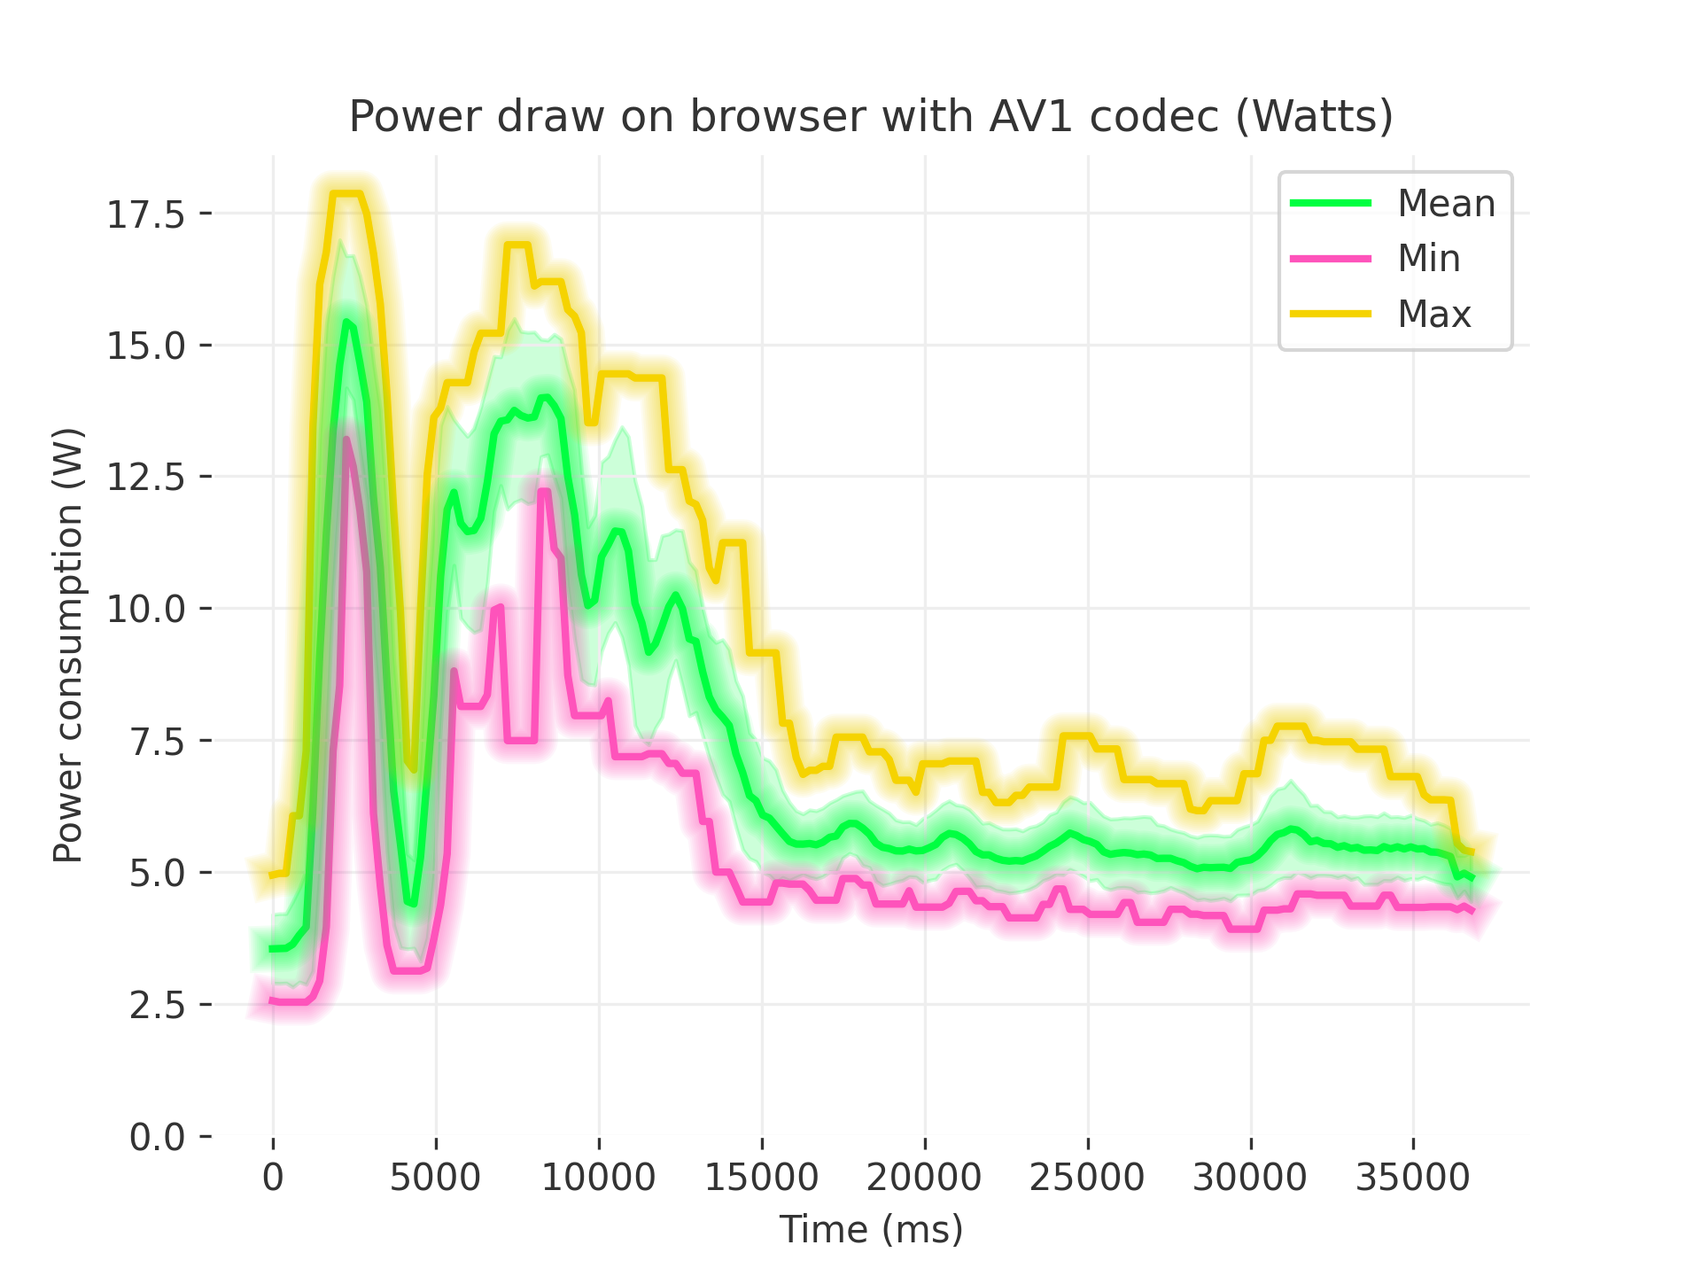
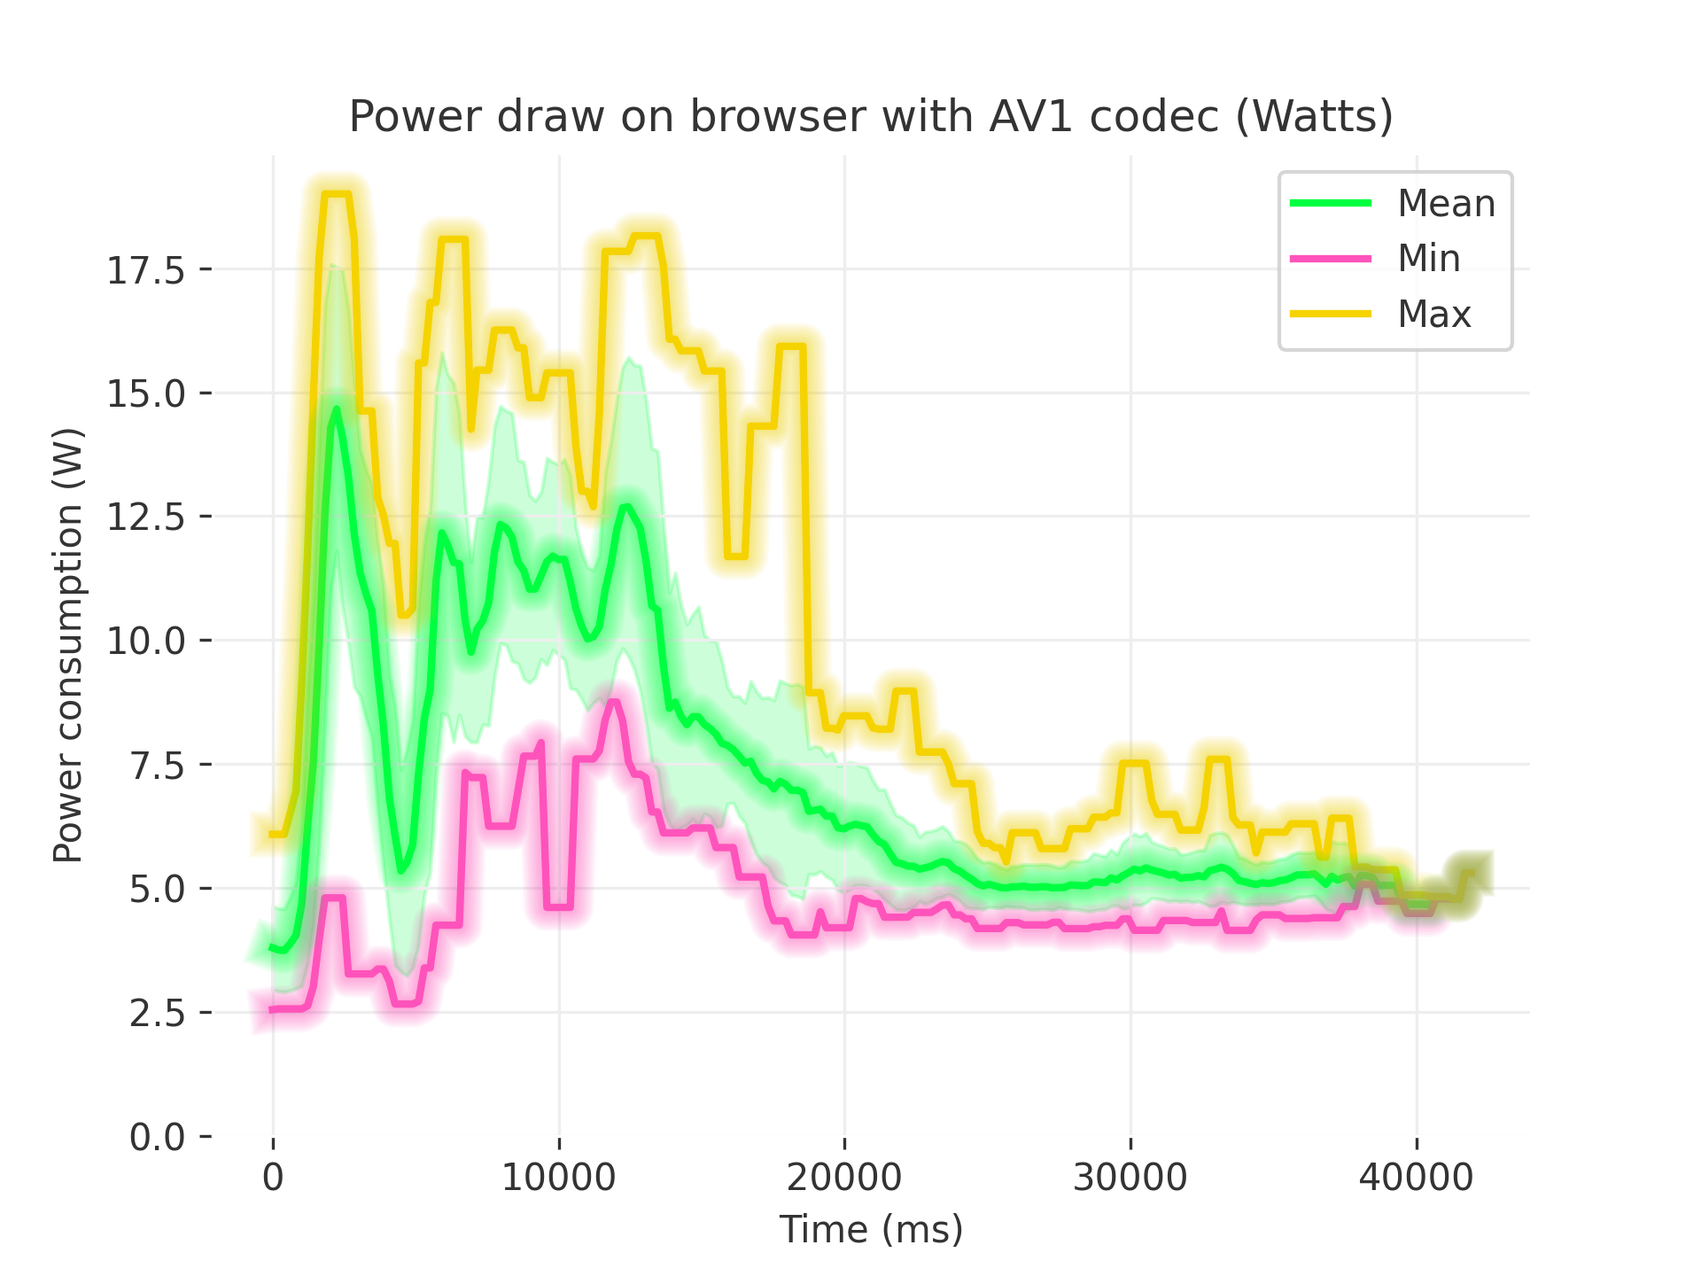
Add correct final version

diff --git a/2025/p1_measuring_software/g14_jellyfin_browser_native.md b/2025/p1_measuring_software/g14_jellyfin_browser_native.md
@@ -17,7 +17,7 @@ All code used for these experiments can be found [here](https://github.com/Jeroe
 
 ### Program under test
 
-We will be comparing the energy usage of [Jellyfin](https://jellyfin.org/), a free open-source media server that is used for managing and streaming a media library. In this experiment, we compare the energy consumption of streaming a small piece of a movie using the web browser interface versus the Jellyfin native application. By measuring the energy consumption of these two approaches, we aim to identify which method is more energy-efficient and under which circumstances.
+We will be comparing the energy usage of [Jellyfin](https://jellyfin.org/), a free open-source media server that is used for managing and streaming a media library. In this experiment, we compare the energy consumption of streaming a small piece of a movie using the web browser interface versus the Jellyfin client native application. By measuring the energy consumption of these two approaches, we aim to identify which method is more energy-efficient and under which circumstances.
 
 ### Video codecs
 
@@ -33,9 +33,9 @@ The media player used for video and audio playback differes between the browser 
 
 ### Experimental Setup
 
-To compare the browser version to the native app we created an automatic testing script. We chose to use the Google Chrome browser and downloaded the most recent version of the MacOS Jellyfin application. The task consists of logging in to the jellyfin server, searching for a video and watching for a predefined amount of time before closing either the browser or app. Whichever we were testing.
+To compare the browser version to the native app we created an automatic testing script. We chose to use the Google Chrome browser and downloaded the most recent version of the MacOS Jellyfin application (v1.11.1) and Jellyfin server v10.10.3. The task consists of logging in to the jellyfin server, searching for a video and watching for a predefined amount of time before closing either the browser or app. Whichever we were testing.
 
-For these experiments we had the automated script watch 30 seconds of video. To also include different video codecs we ran experiments on the video '2 Fast 2 Furious' which has an H.264 codec, and on the video 'Moana 2' which has an AV1 codec. For these experiments the same browser was used, and the same Jellyfin application was used.
+For these experiments we had the automated script watch 30 seconds of video. To also include different video codecs we ran experiments on the movie '2 Fast 2 Furious' which with an H.264 codec, and on the movie 'Moana 2' with an AV1 codec. For these experiments the same browser was used, and the same Jellyfin application was used.
 
 ### Hardware setup
 
@@ -77,7 +77,9 @@ We used the energy consumption method over the average power draw since we inclu
 
 ![h264 browser](../img/p1_measuring_software/g14_jellyfin_browser_native/h264_browser_watts.png)
 
-![h264 dist](../img/p1_measuring_software/g14_jellyfin_browser_native/h264_distribution.png)
+![av1 app](../img/p1_measuring_software/g14_jellyfin_browser_native/av1_app_watts.png)
+
+![av1 browser](../img/p1_measuring_software/g14_jellyfin_browser_native/av1_browser_watts.png)
 
 ### Power Draw on the App
 
@@ -86,12 +88,14 @@ Plot description:
 - X-axis (Time in milliseconds).
 - Y-axis (Power in watts): the total system power draw.
 - Lines:
+
   - Green (Mean): the average power across multiple measurements at each time slice.
   - Green area: standard deviation of the mean power.
   - Pink (Min): the lowest power measurement observed at each time step.
   - Yellow (Max): the highest power measurement observed at each time step.
-- General Shape: there is a pronounced spike in the first ~5s, followed by a downward trend, and eventually settling into a moderately stable range of 5 to 8 watts for the mean line.
-  If we go more in more depth, we can divide the graphs in sections. We can observe that the initial spike to nearly 18W is common at the start of the application. The power draw then drops as the application finishes starting at ~7 seconds. Power draw then peaks again while searching for and starting the playback of the movie between ~7 and ~15 seconds as the application is making requests, loading thumbnails, and playback starts performing video initialization, buffering, and possibly hardware-acceleration handshakes. The second section between ~7 to ~15 seconds, the mean drops from ~10W to ~6-8W. The difference between min and max indicates short bursts of higher CPU/GPU activity, we could see this section as the settling section. The third section ~15s onward, after the first peak, the power consumption drifts with less dramatic peaks. The mean line is around 6-7W, and the min line dips to around 2-3W at times, suggesting idle or partial idle states when frames are easily decoded, we could see this section as the stable section.
+
+General Shape: there is a pronounced spike in the first ~7s, after which the power draw stabilises, and eventually settling into a moderately stable range.
+If we go more in more depth, we can divide the graphs in sections. In the startup phase we can observe that the initial spike to nearly 18W is common at the start of the application. The power draw then drops as the application finishes starting at ~5 seconds. In the second phase, power draw then peaks again while searching for and starting the playback of the movie between ~5 and ~15 seconds as the application is making requests, loading thumbnails, and playback starts performing video initialization, buffering, and possibly hardware-acceleration handshakes. The difference between min and max indicates short bursts of higher CPU/GPU activity, we could see this section as the settling section. The third section from ~15s onward, after the first peak, the power consumption drifts with less dramatic peaks.
 
 ### Power Draw on the Web Browser
 
@@ -99,11 +103,19 @@ Plot description:
 
 - Similar Layout: same axes for time (ms) and power (W).
 - Lines: same as the previous plot.
-- General Shape: it also features a high spike initially, followed by a decline, with a somewhat smoother or narrower range than the App after the first few seconds.
-  In this graph we can also divide it into different sections. The first section from 0 to ~5s, the peak reaches almost 18W again, for the same reasons (startup) as with the native app. The second section from ~5-20s, the max line can reach 10-12W, while the min line dips around 3-4W. The mean line stabilizes at around 6-7W, this section could be seen as mid-range fluctuations during navigation of the interface. The last section from ~20 seconds onwards, there is a mild downward trend while playing the movie. The mean goes from ~8W at the start of playback down to around ~6W at the end, but being otherwise stable without peaks.
-  Difference between the App and the Browser energy consumption: they both have similar behavior but the Browser may have fewer extreme downward dips than the App, this could indicate a steadier baseline overhead. On the other hand, it sometimes exhibits short bursts of activity that keep the max line slightly elevated.
+
+General Shape: it also features a high spike initially, followed by a decline, however this happens later than with the native app. Especially the startup phase and the searching phase in the webbrowser uses a lot more energy compared to the native app.
+In this graph we can also divide it into different sections. The first section from 0 to ~5s, the peak reaches almost 18W again, for the same reasons (startup) as with the native app. The second section from ~5-20s, during the searching for the movie, is also way more power intensive compare to the native app. The last section from ~20 seconds onwards, there is a mild downward trend while playing the movie. The mean goes from ~9-11W at the start of playback down to around ~3-5W at the end depending on the codec.
+
+### Power draw comparison between browser and app
+
+Both the browser and app have similar behavior, but the browser uses a lot more energy, especially during the startup and searching phase. We also notice that the native app quickly settles into a stable power draw once streaming has started, while the browser takes longer to reach it's most efficient point. This may be due to the different codecs used by mpv and Google Chrome, and could also be related to the V8 engine from Chrome optimizing functions more and more if they are frequently used.
 
 ### Energy Consumption Distribution (Violin + Box Plot)
+
+![h264 dist](../img/p1_measuring_software/g14_jellyfin_browser_native/h264_distribution.png)
+
+![av1 dist](../img/p1_measuring_software/g14_jellyfin_browser_native/av1_distribution.png)
 
 Plot description:
 
@@ -112,38 +124,57 @@ Plot description:
 - Violin Plots: Show the overall distribution (thick areas indicate more frequent values)
 - Box Plots: Show the median line, interquartile range, and possible outliers.
 
-The App distribution spans from roughly 220J to 340J in the extremes. The box (middle 50% of data) centers around 260-280J, with a median near to 270J. Outliers indicate some runs, where the total energy was lower or higher than the bulk measurement.
+Three observations are clear from the distributions:
 
-The Browser distribution ranges similarly from ~220 to ~340J, but the distribution appears slightly shifted upward, meaning that the box is a bit higher. The median is around 280J, with the top of the box approximately around 300J. The outliers on both ends suggest variability in the measurement environment or usage pattern.
+- The native app is a lot more consistent in the total energy used compared to the webbrowser. Comparing the spread of the two distributions clearly indicates that the webbrowser may use very different amounts of energy to perform the test.
+- The native app uses significantly less energy compared to the webbrowser. As seen in the graphs above, this is both caused by the startup and search phases using more energy in the browser. In addition, the energy usage while streaming takes longer to settle than witht the native app, and even then is still higher in the browser.
+- H.264 is more efficient than AV1 when it comes to energy usage. This is to be expected and in line with what was mentioned in the introduction. The AV1 codec is designed to use less bandwidth/storage than H.264. This does however result in it requiring more processing power to encode and decode, which is confirmed by our experiment.
 
-Even though both the App and the Browser are quite similar, the Browser's median and upper quartile appear slightly higher, this suggests that the overall energy usage can be marginally greater for the Browser across these tests.
+### Statistical significance
+
+To test whether the collected data resembles a normal distribution, we use the Shapiro-Wilk test. From the table below, we can conclude that all results resemble a normal distribution (p-value threshold is 0.05).
+
+| Run type      | Statistic | p-value |
+| ------------- | --------- | ------- |
+| App H.264     | 0.97      | 0.76    |
+| Browser H.264 | 0.97      | 0.48    |
+| App AV1       | 0.99      | 0.98    |
+| Browser AV1   | 0.96      | 0.31    |
+
+To test the significance of the results, we used Welch's t-test. From the table below, we can conclude that the results are statistically significant (p-value thereshold 0.05).
+
+| Comparison            | Statistic | p-value |
+| --------------------- | --------- | ------- |
+| App vs. Browser H.264 | 10.1      | 1.6e-11 |
+| App vs. Browser AV1   | 7.35      | 2.1e-08 |
 
 ## Implications of the Results
 
 - Start-Up Cost vs. Steady State: Both the App and the Browser show significant spikes in power usage at the beginning of the test. This penalty can be attributed to video buffering, decoding initialization and other overhead tasks. After a few seconds, power usage declines and settles into a more stable range. This represents normal playback once the buffering is complete and the decoder is running smoothly. The initial burst could be minimized, by optimizing buffering and preloading. If the app or browser could predict how much data was going to be needed for the next few seconds of playback, it might fetch it more efficiently, hence reducing the size or duration of the initial spike. Similarly, if the initial part of the video was delivered at a lower bitrate, just for a few seconds, it could shorten the time spent in high CPU/GPU usage while decoding large frames. Furthermore, making sure that the GPU driver or integrated graphics driver is up to date can help ensure the best hardware decode path is used. Additionally, only initializing components of the player like advanced UI elements, could help the system not to overload the system at once.
-- Total energy perspective: The browser has slightly higher total energy consumption compared to the app. Even if the browser doesn't always hit the extreme peaks, the overall consumption is higher. This suggests the browser might keep certain components active or run at a higher baseline power state. On the other hand, the app might have to do more work upfront, but then idle more efficiently, resulting in a lower median total energy usage. We think that the total energy usage could be minimized by doing the following: with respect to the browser, it could help to use an incognito window for fewer add-ons and to have a minimal environment. For app specific purposes, by reducing data processing once the playback is stable could help minimize the total energy usage. On top of that, modern GPUs can also reduce clock speeds when load is low, so dynamic clocking could be crucial. In addition, scaling down CPU frequency when full power is not needed could also help, even though this is normally done automatically.
+- Total energy perspective: The browser has significantly higher total energy consumption compared to the app. Because of the higher energy usage in the first phases and slower settling of energy usage, the overall consumption is higher. This suggests the browser is performing more tasks than the native app, might keep certain components active or run at a higher baseline power state. The app might have less work to do upfront, and then settles more efficiently, resulting in a lower median total energy usage. We think that the total energy usage could be minimized by doing the following: with respect to the browser, it could help to use an incognito window for fewer add-ons and to have a minimal environment. For app specific purposes, reducing data processing once the playback is stable could help minimize the total energy usage. On top of that, modern GPUs can also reduce clock speeds when load is low, so dynamic clocking could be crucial. In addition, scaling down CPU frequency when full power is not needed could also help, even though this is normally done automatically.
 - Practical implications:
-  - Battery impact: On laptops, tablets, or phones, every extra joules consumed every few seconds can shorten playback time. If the browser constantly run at a higher energy consumption baseline, the battery will drain quicker over a long playback.
-  - Performance tuning: if we are aiming to minimize system power, we need to identify and remover overhead, this could be done by using profiling tools like Intel Power Gadget (Mac/Windows) or powertop (Linux) or by optimizing code, for the app we could ensure efficient video decode libraries, and for the browser we could limit background pages, or unnecessary DOM updates.
+  - Battery impact: On laptops, tablets, or phones, every extra watt of power draw can shorten playback time. If the browser constantly runs at a higher energy consumption baseline, the battery will drain quicker over a long playback.
+  - Performance tuning: if we are aiming to minimize system power, we need to identify and remove overhead. This could be done by using profiling tools like Intel Power Gadget (Mac/Windows) or powertop (Linux) or by optimizing code. For the app we could ensure efficient video decode libraries, and for the browser we could limit background pages, or unnecessary DOM updates.
   - User experience: the initial spikes can generate heat and noise (due to the fans trying to cool down the device). This could be fixed by making a proper thermal management and by watching the video in lower resolution.
 
 ## Limitations
 
 While this study provides valuable insights into the energy consumption differences between the Jellyfin web browser interface and the native application, several limitations must be acknowledged:
 
-- Codec Testing: We tested only one video codec, so our results may not apply to other codecs that use hardware differently.
 - Operating System: We tested exclusively on macOS, and results will likely vary on other operating systems due to differences in power management, hardware optimization, and system architecture.
 - Caching: We didn’t account for caching in the native app, which might store more data than the browser and affect power use over time.
 - Hardware: We tested on just one device, so the results might be different on others with different CPU, GPU, and power management capabilities.
 - Network Influence: Due to limitations of the machine used for testing, we were not able to use a wired network connection, which could have influenced energy measurements.
 - Duration: We measured energy use for only around 40 seconds, so we might have missed longer-term trends like power-saving features or background processes (such as software updates or notifications). These factors can affect energy consumption, but since our experiment was short, their impact over time remains unknown.
 
-Despite these limitations, our study provides a useful baseline for comparing the energy efficiency of Jellyfin’s web and native app streaming experiences. Future work could expand on these findings by testing multiple codecs, operating systems, and hardware configurations and so on.
+Despite these limitations, our study provides a useful baseline for comparing the energy efficiency of Jellyfin’s web and native app streaming experiences. Future work could expand on these findings by testing multiple operating systems, hardware configurations and so on.
 
 ## Conclusion
 
-Our study compared the energy consumption of streaming Fast & Furious through the Jellyfin web browser interface and the Jellyfin native app. The results shows that both methods follow a similar power usage pattern, with an initial spike (~18W) followed by stabilization. However, the browser tends to have a slightly higher median energy consumption and fewer extreme dips than the app, indicating a steadier baseline. At the same time, the browser occasionally shows short bursts of activity that keep its peak power levels slightly elevated.
+Our study compared the energy consumption of streaming videos through the Jellyfin web browser interface and the Jellyfin native app. The results shows that both methods follow a similar power usage pattern, with an initial spike (~18W) followed by stabilization. However, the browser tends to have a significantly higher median energy consumption and more peaks than the app, indicating a less steady baseline. At the same time, the browser occasionally shows short bursts of activity that keep its peak power levels elevated. We also conclude from the violin plots that browser energy usage is unstable. As we see normal distributed spread of energy usage compared to the app version, for which the energy usage is very stable.
 
-While these findings provide insight into the energy efficiency of both approaches, our study had some limitations. We only tested one video codec, used a single hardware setup, and measured energy consumption over a short period. As a result, the findings may not fully apply to other conditions.
+From our comparison of AV1 against H264 we also conclude that AV1 uses more energy, which is to be expected since it is a computationally heavier algorithm. This comparison is consistent across the browser version and the native version. We also conclude that the native version is consistently better when considering energy usage than the browser version.
 
-Overall, this experiment serves as a starting point for understanding the impact of energy consumption across different approachesFuture research could explore different codecs, devices, operating systems, and longer playback durations to get a more complete picture of energy efficiency in media streaming applications.
+While these findings provide insight into the energy efficiency of both approaches, our study had some limitations which should be kept in mind. As a result, the findings may not fully apply to all other scenarios. But, given these limitations and this scenario we can conclude that a user should use the native version over the browser version of Jellyfin.
+
+As future research these experiments should be ran for more codecs, devices, operating systems and a onger playback duration could also be considered to get a more complete picture of energy efficiency in native applications versus browser applications.
